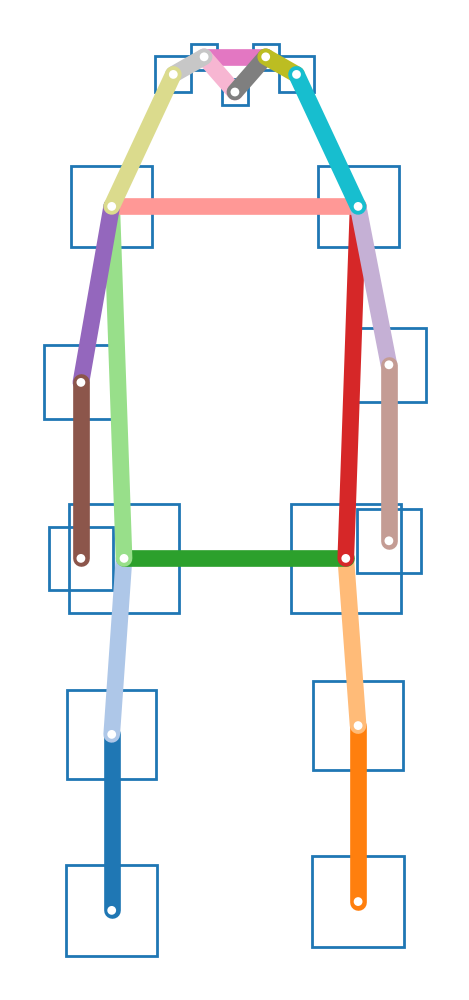
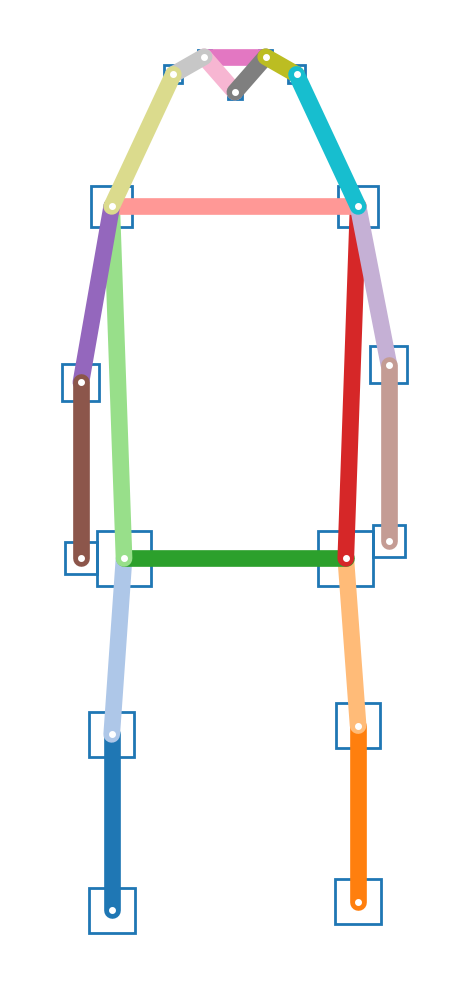
deploy: 9eb7ab5ee9b25835313995f84c4f773e4618a370

diff --git a/searchindex.js b/searchindex.js
@@ -1,1 +1,1 @@
-Search.setIndex({docnames:["datasets","dev","intro","moduledocs","predict_api","predict_cli","train"],envversion:{"sphinx.domains.c":1,"sphinx.domains.changeset":1,"sphinx.domains.citation":1,"sphinx.domains.cpp":1,"sphinx.domains.index":1,"sphinx.domains.javascript":1,"sphinx.domains.math":2,"sphinx.domains.python":1,"sphinx.domains.rst":1,"sphinx.domains.std":1,sphinx:56},filenames:["datasets.ipynb","dev.ipynb","intro.md","moduledocs.ipynb","predict_api.ipynb","predict_cli.ipynb","train.ipynb"],objects:{},objnames:{},objtypes:{},terms:{"15s":0,"604c5956":4,"ap\u1d38":2,"ap\u1d39":2,"default":5,"function":[1,3],"import":[0,3,4],"long":[5,6],"new":[2,6],"short":5,"static":1,"true":[4,5,6],"try":[2,5],"while":6,And:5,For:[1,2,6],That:6,The:[1,2,5,6],Then:4,Use:5,__doc__:3,__main__:5,__version__:4,a35c65dd:6,about:6,abov:[2,5],activ:4,again:1,alahi:2,alexandr:2,all:5,all_indic:4,also:5,altern:2,andriluka14cvpr:0,ani:5,annot:[0,3,4,5],annotations_trainval2017:0,anoth:5,appli:5,applic:5,architectur:2,art:2,asarrai:4,associ:[0,2,4],author:2,auto:6,automat:2,avail:[0,4,5],backbon:[2,3],backbonenameasintableabov:2,base:[2,5],base_net:4,basenet:[5,6],basenet_strid:4,basevisu:4,batch:[3,4,5,6],batch_siz:[4,5],batchnorm:6,bbox:5,begin:6,below:[4,5],benchmark:2,bertoni:2,best:2,blend:5,bodi:2,booktitl:2,bottom:2,box:[2,5],browser:2,bytesio:4,cach:4,caf25:[4,6],caf:[4,5,6],caf_th:5,can:[5,6],car:2,category_id:5,characterist:6,check:6,checkpoint:[2,4,5,6],choic:2,cif:[4,5,6],cif_th:5,cifcaf:5,cifdet:5,cifhr:5,cifse:4,clone:[1,2],clutter:2,coco:[2,4,5],coco_keypoint:0,coco_person_skeleton:0,cocodataset:0,code:1,colab:[1,2],collate_fn:4,collate_images_anns_meta:4,collect:3,color:5,color_connect:4,com:4,command:[1,2,5,6],comparison:2,compat:5,complet:5,composit:2,comput:2,confer:2,confid:5,configur:5,connect:5,constant:0,construct:2,content:4,continu:2,conv:5,convert:[3,4],convolut:2,coordin:3,coupl:5,cpu:4,creat:[0,2,5],credit:[2,4,5],cross:5,cross_talk:5,crowd:2,cuda:[4,5],cuda_visible_devic:6,current:[1,2],cvpr:2,cython:1,d05e5520:6,data:[0,3,4,5],dataset:6,debug:5,debug_indic:5,dec:2,decai:6,decod:[4,5],decoder_work:5,deliveri:2,demo:5,dens:[0,5],dense_coupl:5,depend:1,design:2,develop:1,devic:4,differ:6,directori:[0,1,2,5,6],disabl:5,doc:[2,4,5],domain:2,done:6,dot:1,download:[0,2,4],download_progress:4,dpi:5,dpi_factor:5,draw:[3,5],drive:2,dropout:5,each:2,edg:[5,6],edge401:6,edit:1,ema:6,empti:5,enabl:4,encod:2,end:2,enumer:0,epfl:[2,4],epoch150:6,epoch:6,estim:[2,4,5],eval_coco:[2,6],evalu:6,everi:[4,6],exact:6,exampl:5,exec:6,exist:[2,6],exit:5,experiment:[2,5],export_onnx:2,express:5,extend:6,factor:[5,6],factori:4,factory_decod:4,fals:[4,5],faster:5,featur:5,field:[2,3,5],fieldindex:5,fifth:4,figur:5,figure_width:5,file:[2,5,6],filter:5,find:6,fine:2,first:6,five:6,flag:5,flip:5,folder:[2,5],forc:5,form:[2,5],format:0,fotolog:[2,4,5],fps:5,frame:5,free:2,from:[2,3,5,6],front:2,frontier:5,full:[2,5],fulli:2,gener:5,get:4,github:[2,4],githubusercont:4,given:5,glob:5,googl:[1,2],grain:2,great:6,greedi:5,ground:3,gsutil:0,gtx1080ti:2,guid:2,head:[3,5],head_dropout:5,head_net:4,head_quad:5,headless:5,headnam:5,headnet:[5,6],help:[2,5],here:[4,5],hflip:5,higher:3,hip:4,home:4,horizont:5,http:[0,2,4,5],human:2,ieee:2,imag:[0,2,5],image_canva:4,image_info_test2017:0,image_output:5,image_respons:4,imagenet:[5,6],images_batch:4,implement:3,improv:6,incorpor:2,increas:5,index:4,indic:5,individu:4,inf:0,info:5,inform:2,initi:6,inlin:4,inproceed:2,input:[3,5],insid:0,instal:1,instanc:5,instance_threshold:[4,5],instruct:6,integ:5,intens:2,interact:5,intro:5,invari:6,itself:1,joint1:0,joint2:0,joint:5,jpg:[2,4,5],json:[0,5],json_output:5,june:2,kba19:2,keypoint:[2,3,4,5],keypoint_paint:4,keypoint_threshold:[4,5],keypointpaint:4,kinemat:0,kp_name:0,kreiss2019pifpaf:2,kreiss:[2,4,5],lambda:6,laplac:2,larg:6,last:1,learn:[2,4,5,6],left:4,left_ankl:0,left_ear:0,left_elbow:0,left_ey:0,left_hip:0,left_kne:0,left_should:0,left_wrist:0,level:3,licens:[2,4,5],line:[2,5,6],line_width:5,linewidth:4,link:2,linux:2,list:[0,5],live:2,load:[3,5],loader:[4,5],loader_work:5,local:2,log:[2,5],long_edg:5,look:6,lorenzo:2,loss:2,low:2,maco:2,macosx:5,make:[2,6],mani:5,master:4,matplotlib:[4,5],max:5,max_fram:5,messag:5,method:[2,5],metric:[2,6],migrat:2,minimum:5,minut:6,mkdir:0,mobil:2,model:[5,6],modifi:[1,2],moment:2,momentum:6,monocolor:5,monocular:2,monoloco:2,month:2,more:2,mp4:5,mpg:0,mpi:0,mpii:0,mpii_human_pose_v1:0,mpii_human_pose_v1_u12_2:0,mplbackend:5,mscoco:0,mtl:6,much:2,multi:[2,4,5],must:4,myvideotoprocess:5,name:[0,2,6],need:1,net:4,net_cpu:4,network:5,nightowl:0,nightowls_valid:0,nms:4,none:5,nose:0,notion:2,number:5,numpi:[1,4],o10:4,obtain:2,occlud:2,old:2,onli:5,open:[3,4],opencv:[2,5],openpifpaf:[0,1,2,4,5,6],openpifpafwebdemo:2,option:[1,2,6],order:5,org:0,orient:6,other:[2,5],our:2,out:5,outperform:2,output:[2,5,6],overlai:5,packag:1,paf:[2,6],paper:2,par:2,part:2,particularli:2,pass:4,pattern:2,pedestrian:2,perform:[2,6],person:[2,4,5],pif:[2,6],pifpaf:[2,3,5],pil:4,pil_im:4,pilimagelist:4,pin_memori:4,pip3:[1,2],pip:1,pkl:[4,6],placehold:2,plot:5,png:5,pose:[2,4,5],posit:5,possibl:5,pre:6,predict:[1,2],prefix:5,preprocess:5,pretrain:[2,5,6],previou:2,primit:3,print:[0,3,4,5],probabl:5,process:5,processor:4,produc:[2,5,6],prof:5,profil:5,profile_decod:5,program:5,programmat:4,propos:2,provid:[2,5],python3:[0,2,5,6],python:[0,1,2,5],pyx:1,quad:5,quiet:5,rate:6,raw:4,recognit:2,recommend:2,recompil:1,reduc:[5,6],refer:2,refin:6,regress:2,releas:4,replac:5,repositori:[1,2],reproduc:2,request:4,requir:[2,5],resnet101:[2,5],resnet101block5:6,resnet152:5,resnet152block5:6,resnet50:[2,5,6],resnet50block5:6,resolut:2,result:2,rgb:4,right_ankl:0,right_ear:0,right_elbow:0,right_ey:0,right_hip:0,right_kne:0,right_should:0,right_wrist:0,robot:[0,2],rsync:0,rtmp:5,run:[0,1,2,4,5],runner:4,runningstatist:6,same:6,scale:[5,6],scene:2,score:5,screen:2,see:6,seed:5,seed_threshold:5,self:2,set:[2,3],share:2,shoot:5,shot:2,should:4,shoulder:4,show:[4,5],show_regress:4,shufflenetv2k16w:[2,4,6],shufflenetv2k30w:2,shufflenetv2k44w:6,shufflenetv2x2:2,signifi:1,singl:2,size:[5,6],skeleton:5,skip:[5,6],skip_fram:5,sleep:6,sourc:[1,5],specifi:[4,5],squar:6,standard:2,start:5,start_fram:5,state:2,stream:5,stride:4,string:5,subpixel:5,suit:2,support:[2,5],sure:2,surf:[2,4,5],sven:[2,4,5],system:5,tabl:2,take:[3,6],talk:5,tar:0,target:3,task:2,test2017:0,test:[0,1,2],than:2,thank:2,thei:6,thi:[1,2,5],threshold:[4,5],time:[5,6],titl:2,tool:[2,3,5],torch:4,torchhub:[2,4],total:2,train2017:0,train:[1,3],transport:2,tree:0,troubl:5,truth:3,tune:6,turn:3,two:5,type:4,uncertainti:2,uncom:1,under:[2,4,5],unzip:0,updat:6,upgrad:1,urban:2,url:5,usag:5,use:[4,5],used:[5,6],uses:2,using:[1,2,4],util:4,val2017:0,val:2,valid:5,version:[1,2,5],vgg:0,video:2,video_fp:5,video_output:5,vision:2,visual:[5,6],vita:[2,4],warm:6,warn:5,web:2,webcam0:5,webcam:5,weight:6,well:2,wget:0,when:[1,2,4],which:[1,2,4,5],width:5,window:2,without:[5,6],work:2,worker:5,www:0,year:2,you:[1,5,6],your:2,zero:5,zip:0},titles:["Datasets","Contribute","Introduction","Modules","Prediction API","Prediction CLI","Training"],titleterms:{api:4,argument:5,citat:2,cli:5,coco:0,contribut:1,dataload:4,dataset:[0,3,4],decod:3,demo:2,displai:4,encod:3,exampl:4,field:4,histori:1,imag:4,instal:2,interfac:2,introduct:2,keypoint:0,load:4,log:6,model:2,modul:3,network:[3,4],neural:4,openpifpaf:3,option:5,person:0,pre:2,predict:[4,5],project:2,relat:2,resnet:6,scratch:1,show:3,shufflenet:6,skeleton:0,train:[2,4,6],transform:3,video:5,visual:[3,4]}})
+Search.setIndex({docnames:["datasets","dev","intro","moduledocs","predict_api","predict_cli","train"],envversion:{"sphinx.domains.c":1,"sphinx.domains.changeset":1,"sphinx.domains.citation":1,"sphinx.domains.cpp":1,"sphinx.domains.index":1,"sphinx.domains.javascript":1,"sphinx.domains.math":2,"sphinx.domains.python":1,"sphinx.domains.rst":1,"sphinx.domains.std":1,sphinx:56},filenames:["datasets.ipynb","dev.ipynb","intro.md","moduledocs.ipynb","predict_api.ipynb","predict_cli.ipynb","train.ipynb"],objects:{},objnames:{},objtypes:{},terms:{"15s":0,"604c5956":4,"ap\u1d38":2,"ap\u1d39":2,"default":5,"function":[1,3],"import":[0,1,3,4],"long":[5,6],"new":[2,6],"short":5,"static":1,"true":[1,4,5,6],"try":[2,5],"while":6,And:5,Axes:1,For:[1,2,6],That:6,The:[1,2,5,6],Then:4,Use:5,__doc__:3,__main__:5,__version__:4,a35c65dd:6,about:6,abov:[2,5],activ:4,again:1,alahi:2,alexandr:2,all:5,all_indic:4,also:5,altern:2,andriluka14cvpr:0,ani:5,ann:1,annot:[0,1,3,4,5],annotations_trainval2017:0,anoth:5,appli:5,applic:5,architectur:2,art:2,asarrai:4,aspect:1,associ:[0,2,4],author:2,auto:6,automat:2,avail:[0,4,5],backbon:[2,3],backbonenameasintableabov:2,base:[2,5],base_net:4,basenet:[5,6],basenet_strid:4,basevisu:4,batch:[3,4,5,6],batch_siz:[4,5],batchnorm:6,bbox:5,bbox_inch:1,begin:6,below:[4,5],benchmark:2,bertoni:2,best:2,blend:5,bodi:2,booktitl:2,bottom:2,box:[2,5],browser:2,bytes_io:1,bytesio:4,cach:4,caf25:[4,6],caf:[4,5,6],caf_th:5,can:[5,6],canva:1,car:2,category_id:5,characterist:6,check:6,checkpoint:[2,4,5,6],choic:2,cif:[4,5,6],cif_th:5,cifcaf:5,cifdet:5,cifhr:5,cifse:4,clone:[1,2],clutter:2,coco:[2,4,5],coco_keypoint:[0,1],coco_person_sigma:1,coco_person_skeleton:[0,1],coco_upright_pos:1,cocodataset:0,code:1,colab:[1,2],collate_fn:4,collate_images_anns_meta:4,collect:3,color:5,color_connect:[1,4],com:4,command:[1,2,5,6],comparison:2,compat:[1,5],complet:5,composit:2,comput:2,confer:2,confid:5,configur:5,connect:5,constant:[0,1],construct:2,content:4,continu:2,conv:5,convert:[3,4],convolut:2,coordin:3,core:1,coupl:5,cpu:4,creat:[0,2,5],credit:[2,4,5],cross:5,cross_talk:5,crowd:2,cuda:[4,5],cuda_visible_devic:6,current:[1,2],cvpr:2,cython:1,d05e5520:6,data:[0,3,4,5],dataset:[1,6],debug:5,debug_indic:5,dec:2,decai:6,decod:[4,5],decoder_work:5,deliveri:2,demo:5,dens:[0,5],dense_coupl:5,depend:1,design:2,develop:1,devic:4,differ:6,directori:[0,1,2,5,6],disabl:5,doc:[2,4,5],domain:2,done:6,dot:1,download:[0,2,4],download_progress:4,dpi:[1,5],dpi_factor:5,draw:[3,5],draw_ann:1,drive:2,dropout:5,each:2,edg:[5,6],edge401:6,edit:1,ema:6,empti:5,enabl:4,encod:2,end:2,enumer:0,epfl:[2,4],epoch150:6,epoch:6,equal:1,estim:[2,4,5],eval_coco:[2,6],evalu:6,everi:[4,6],exact:6,exampl:5,exec:6,exist:[2,6],exit:5,experiment:[2,5],export_onnx:2,express:5,extend:6,factor:[5,6],factori:4,factory_decod:4,fals:[1,4,5],faster:5,featur:5,field:[2,3,5],fieldindex:5,fifth:4,fig:1,fig_fil:1,figur:[1,5],figure_width:5,file:[2,5,6],filenam:1,filter:5,find:6,fine:2,first:6,five:6,flag:5,flip:5,folder:[2,5],forc:5,form:[2,5],format:0,fotolog:[2,4,5],fps:5,frame:5,frameon:1,free:2,from:[1,2,3,5,6],front:2,frontier:5,full:[2,5],fulli:2,gener:5,get:4,github:[2,4],githubusercont:4,given:5,glob:5,googl:[1,2],grain:2,great:6,greedi:5,ground:3,gsutil:0,gtx1080ti:2,guid:2,head:[3,5],head_dropout:5,head_net:4,head_quad:5,headless:5,headnam:5,headnet:[5,6],help:[2,5],here:[4,5],hflip:5,higher:3,hip:4,home:4,horizont:5,hostedtoolcach:1,http:[0,2,4,5],human:2,ieee:2,imag:[0,2,5],image_canva:4,image_info_test2017:0,image_output:5,image_respons:4,imagenet:[5,6],images_batch:4,implement:3,improv:6,includ:1,incorpor:2,incorrect:1,increas:5,index:4,indic:5,individu:4,inf:0,info:5,inform:2,initi:6,inlin:[1,4],inproceed:2,input:[3,5],insid:0,instal:1,instanc:5,instance_threshold:[4,5],instruct:6,integ:5,intens:2,interact:5,intro:5,invari:6,ipython:1,itself:1,joint1:0,joint2:0,joint:5,jpg:[2,4,5],json:[0,5],json_output:5,june:2,kba19:2,keypoint:[1,2,3,4,5],keypoint_paint:[1,4],keypoint_threshold:[4,5],keypointpaint:[1,4],kinemat:0,kp_name:0,kreiss2019pifpaf:2,kreiss:[2,4,5],lambda:6,laplac:2,larg:6,last:1,learn:[2,4,5,6],left:4,left_ankl:0,left_ear:0,left_elbow:0,left_ey:0,left_hip:0,left_kne:0,left_should:0,left_wrist:0,level:3,lib:1,licens:[2,4,5],line:[2,5,6],line_width:5,linewidth:[1,4],link:2,linux:2,list:[0,5],live:2,load:[3,5],loader:[4,5],loader_work:5,local:2,log:[2,5],long_edg:5,look:6,lorenzo:2,loss:2,low:2,maco:2,macosx:5,make:[2,6],mani:5,margin:1,markers:1,master:4,matplotlib:[1,4,5],max:5,max_fram:5,messag:5,method:[2,5],metric:[2,6],might:1,migrat:2,minimum:5,minut:6,mkdir:0,mobil:2,model:[5,6],modifi:[1,2],moment:2,momentum:6,monocolor:5,monocular:2,monoloco:2,month:2,more:2,mp4:5,mpg:0,mpi:0,mpii:0,mpii_human_pose_v1:0,mpii_human_pose_v1_u12_2:0,mplbackend:5,mscoco:0,mtl:6,much:2,multi:[2,4,5],must:4,myvideotoprocess:5,name:[0,2,6],need:1,net:4,net_cpu:4,network:5,nightowl:0,nightowls_valid:0,nms:4,none:5,nose:0,notion:2,number:5,numpi:[1,4],o10:4,obtain:2,occlud:2,old:2,onli:5,open:[3,4],opencv:[2,5],openpifpaf:[0,1,2,4,5,6],openpifpafwebdemo:2,opt:1,option:[1,2,6],order:5,org:0,orient:6,other:[2,5],our:2,out:5,outperform:2,output:[2,5,6],overlai:5,packag:1,paf:[2,6],paper:2,par:2,part:2,particularli:2,pass:4,pattern:2,pedestrian:2,perform:[2,6],person:[2,4,5],pif:[2,6],pifpaf:[2,3,5],pil:4,pil_im:4,pilimagelist:4,pin_memori:4,pip3:[1,2],pip:1,pkl:[4,6],placehold:2,plot:5,png:[1,5],pose:[2,4,5],posit:5,possibl:5,pre:6,predict:[1,2],prefix:5,preprocess:5,pretrain:[2,5,6],previou:2,primit:3,print:[0,3,4,5],print_figur:1,probabl:5,process:5,processor:4,produc:[2,5,6],prof:5,profil:5,profile_decod:5,program:5,programmat:4,propos:2,provid:[2,5],pylabtool:1,python3:[0,1,2,5,6],python:[0,1,2,5],pyx:1,quad:5,quiet:5,rate:6,raw:4,recognit:2,recommend:2,recompil:1,reduc:[5,6],refer:2,refin:6,regress:2,releas:4,replac:5,repositori:[1,2],reproduc:2,request:4,requir:[2,5],resnet101:[2,5],resnet101block5:6,resnet152:5,resnet152block5:6,resnet50:[2,5,6],resnet50block5:6,resolut:2,result:[1,2],rgb:4,right_ankl:0,right_ear:0,right_elbow:0,right_ey:0,right_hip:0,right_kne:0,right_should:0,right_wrist:0,robot:[0,2],rsync:0,rtmp:5,run:[0,1,2,4,5],runner:4,runningstatist:6,same:6,savefig:1,scale:[5,6],scene:2,score:5,screen:2,see:6,seed:5,seed_threshold:5,self:2,set:[1,2,3],share:2,shoot:5,shot:2,should:4,shoulder:4,show:[1,4,5],show_regress:4,shufflenetv2k16w:[2,4,6],shufflenetv2k30w:2,shufflenetv2k44w:6,shufflenetv2x2:2,signifi:1,singl:2,site:1,size:[5,6],skeleton:[1,5],skip:[5,6],skip_fram:5,sleep:6,sourc:[1,5],specifi:[4,5],squar:6,standard:2,start:5,start_fram:5,state:2,stream:5,stride:4,string:5,subpixel:5,suit:2,support:[2,5],sure:2,surf:[2,4,5],sven:[2,4,5],system:5,tabl:2,take:[3,6],talk:5,tar:0,target:3,task:2,test2017:0,test:[0,1,2],than:2,thank:2,thei:6,thi:[1,2,5],threshold:[4,5],tight:1,tight_layout:1,time:[5,6],titl:2,tool:[2,3,5],torch:4,torchhub:[2,4],total:2,train2017:0,train:[1,3],transport:2,tree:0,troubl:5,truth:3,tune:6,turn:3,two:5,type:4,uncertainti:2,uncom:1,under:[2,4,5],unzip:0,updat:6,upgrad:1,urban:2,url:5,usag:5,use:[4,5],used:[5,6],userwarn:1,uses:2,using:[1,2,4],util:4,val2017:0,val:2,valid:5,version:[1,2,5],vgg:0,video:2,video_fp:5,video_output:5,vision:2,visual:[5,6],vita:[2,4],warm:6,warn:5,web:2,webcam0:5,webcam:5,weight:6,well:2,wget:0,when:[1,2,4],which:[1,2,4,5],width:5,window:2,without:[5,6],work:2,worker:5,www:0,x64:1,year:2,you:[1,5,6],your:2,zero:5,zip:0},titles:["Datasets","Contribute","Introduction","Modules","Prediction API","Prediction CLI","Training"],titleterms:{api:4,argument:5,citat:2,cli:5,coco:0,contribut:1,dataload:4,dataset:[0,3,4],decod:3,demo:2,displai:4,encod:3,exampl:4,favicon:1,field:4,histori:1,imag:4,instal:2,interfac:2,introduct:2,keypoint:0,load:4,log:6,logo:1,model:2,modul:3,network:[3,4],neural:4,openpifpaf:3,option:5,person:0,pre:2,predict:[4,5],project:2,relat:2,resnet:6,scratch:1,show:3,shufflenet:6,skeleton:0,train:[2,4,6],transform:3,video:5,visual:[3,4]}})

diff --git a/dev.html b/dev.html
@@ -28,6 +28,7 @@
     <script >var togglebuttonSelector = '.toggle, .secondtoggle, .tag_hide_input div.cell_input, .tag_hide-input div.cell_input, .tag_hide_output div.cell_output, .tag_hide-output div.cell_output, .tag_hide_cell.cell, .tag_hide-cell.cell';</script>
     <script src="https://cdnjs.cloudflare.com/ajax/libs/require.js/2.3.4/require.min.js"></script>
     <script src="https://unpkg.com/@jupyter-widgets/html-manager@^0.18.0/dist/embed-amd.js"></script>
+    <link rel="shortcut icon" href="_static/favicon.png"/>
     <link rel="index" title="Index" href="genindex.html" />
     <link rel="search" title="Search" href="search.html" />
     <link rel="prev" title="Modules" href="moduledocs.html" />
@@ -48,6 +49,8 @@
     
         <div class="navbar-brand-box">
 <a class="navbar-brand text-wrap" href="index.html">
+  
+  <img src="_static/logo.png" class="logo" alt="logo">
   
   
   <h1 class="site-logo" id="site-title">OpenPifPaf Guide</h1>
@@ -158,9 +161,16 @@
         
     </div>
     <div class="d-none d-md-block col-md-2 bd-toc show">
+<div class="tocsection onthispage pt-5 pb-3">
+    <i class="fas fa-list"></i> On this page
+</div>
 
 <nav id="bd-toc-nav">
     <ul class="nav section-nav flex-column">
+    
+        <li class="nav-item toc-entry toc-h2">
+            <a href="#logo-and-favicon" class="nav-link">Logo and Favicon</a>
+        </li>
     
     </ul>
 </nav>
@@ -184,6 +194,41 @@ pip3 install --editable <span class="s1">&#39;.[train,test]&#39;</span>
 (signified by the dot) with the optional dependencies needed for training and
 testing. If you modify <code class="docutils literal notranslate"><span class="pre">functional.pyx</span></code>, run this last command again which
 recompiles the static code.</p>
+<div class="section" id="logo-and-favicon">
+<h2>Logo and Favicon<a class="headerlink" href="#logo-and-favicon" title="Permalink to this headline">¶</a></h2>
+<div class="cell docutils container">
+<div class="cell_input docutils container">
+<div class="highlight-default notranslate"><div class="highlight"><pre><span></span><span class="o">%</span><span class="n">matplotlib</span> <span class="n">inline</span>
+<span class="kn">import</span> <span class="nn">openpifpaf</span>
+<span class="kn">from</span> <span class="nn">openpifpaf.datasets.constants</span> <span class="kn">import</span> <span class="n">COCO_KEYPOINTS</span><span class="p">,</span> <span class="n">COCO_PERSON_SKELETON</span><span class="p">,</span> <span class="n">COCO_PERSON_SIGMAS</span><span class="p">,</span> <span class="n">COCO_UPRIGHT_POSE</span>
+
+<span class="n">ann</span> <span class="o">=</span> <span class="n">openpifpaf</span><span class="o">.</span><span class="n">Annotation</span><span class="p">(</span><span class="n">keypoints</span><span class="o">=</span><span class="n">COCO_KEYPOINTS</span><span class="p">,</span> <span class="n">skeleton</span><span class="o">=</span><span class="n">COCO_PERSON_SKELETON</span><span class="p">)</span>
+<span class="n">ann</span><span class="o">.</span><span class="n">set</span><span class="p">(</span><span class="n">COCO_UPRIGHT_POSE</span><span class="p">)</span>
+
+<span class="n">keypoint_painter</span> <span class="o">=</span> <span class="n">openpifpaf</span><span class="o">.</span><span class="n">show</span><span class="o">.</span><span class="n">KeypointPainter</span><span class="p">(</span><span class="n">color_connections</span><span class="o">=</span><span class="kc">True</span><span class="p">,</span> <span class="n">linewidth</span><span class="o">=</span><span class="mi">48</span><span class="p">,</span> <span class="n">markersize</span><span class="o">=</span><span class="mi">0</span><span class="p">)</span>
+<span class="n">openpifpaf</span><span class="o">.</span><span class="n">datasets</span><span class="o">.</span><span class="n">constants</span><span class="o">.</span><span class="n">draw_ann</span><span class="p">(</span><span class="n">ann</span><span class="p">,</span> <span class="n">keypoint_painter</span><span class="o">=</span><span class="n">keypoint_painter</span><span class="p">,</span> <span class="n">aspect</span><span class="o">=</span><span class="s1">&#39;equal&#39;</span><span class="p">,</span> <span class="n">margin</span><span class="o">=</span><span class="mf">0.8</span><span class="p">,</span> <span class="n">frameon</span><span class="o">=</span><span class="kc">False</span><span class="p">,</span> <span class="n">filename</span><span class="o">=</span><span class="s1">&#39;favicon.png&#39;</span><span class="p">)</span>
+
+<span class="n">keypoint_painter</span> <span class="o">=</span> <span class="n">openpifpaf</span><span class="o">.</span><span class="n">show</span><span class="o">.</span><span class="n">KeypointPainter</span><span class="p">(</span><span class="n">color_connections</span><span class="o">=</span><span class="kc">True</span><span class="p">,</span> <span class="n">linewidth</span><span class="o">=</span><span class="mi">12</span><span class="p">)</span>
+<span class="n">openpifpaf</span><span class="o">.</span><span class="n">datasets</span><span class="o">.</span><span class="n">constants</span><span class="o">.</span><span class="n">draw_ann</span><span class="p">(</span><span class="n">ann</span><span class="p">,</span> <span class="n">keypoint_painter</span><span class="o">=</span><span class="n">keypoint_painter</span><span class="p">,</span> <span class="n">frameon</span><span class="o">=</span><span class="kc">False</span><span class="p">,</span> <span class="n">filename</span><span class="o">=</span><span class="s1">&#39;logo.png&#39;</span><span class="p">)</span>
+</pre></div>
+</div>
+</div>
+<div class="cell_output docutils container">
+<div class="stderr docutils container">
+<pre class="stderr literal-block">/opt/hostedtoolcache/Python/3.7.7/x64/lib/python3.7/site-packages/openpifpaf/show/canvas.py:33: UserWarning: This figure includes Axes that are not compatible with tight_layout, so results might be incorrect.
+  fig.savefig(fig_file, dpi=dpi)  # , bbox_inches='tight')
+</pre>
+</div>
+<div class="stderr docutils container">
+<pre class="stderr literal-block">/opt/hostedtoolcache/Python/3.7.7/x64/lib/python3.7/site-packages/IPython/core/pylabtools.py:132: UserWarning: This figure includes Axes that are not compatible with tight_layout, so results might be incorrect.
+  fig.canvas.print_figure(bytes_io, **kw)
+</pre>
+</div>
+<img alt="_images/dev_2_2.png" src="_images/dev_2_2.png" />
+<img alt="_images/dev_2_3.png" src="_images/dev_2_3.png" />
+</div>
+</div>
+</div>
 </div>
 <div class="section" id="history">
 <h1>History<a class="headerlink" href="#history" title="Permalink to this headline">¶</a></h1>

diff --git a/predict_cli.html b/predict_cli.html
@@ -28,6 +28,7 @@
     <script >var togglebuttonSelector = '.toggle, .secondtoggle, .tag_hide_input div.cell_input, .tag_hide-input div.cell_input, .tag_hide_output div.cell_output, .tag_hide-output div.cell_output, .tag_hide_cell.cell, .tag_hide-cell.cell';</script>
     <script src="https://cdnjs.cloudflare.com/ajax/libs/require.js/2.3.4/require.min.js"></script>
     <script src="https://unpkg.com/@jupyter-widgets/html-manager@^0.18.0/dist/embed-amd.js"></script>
+    <link rel="shortcut icon" href="_static/favicon.png"/>
     <link rel="index" title="Index" href="genindex.html" />
     <link rel="search" title="Search" href="search.html" />
     <link rel="next" title="Prediction API" href="predict_api.html" />
@@ -49,6 +50,8 @@
     
         <div class="navbar-brand-box">
 <a class="navbar-brand text-wrap" href="index.html">
+  
+  <img src="_static/logo.png" class="logo" alt="logo">
   
   
   <h1 class="site-logo" id="site-title">OpenPifPaf Guide</h1>

diff --git a/train.html b/train.html
@@ -28,6 +28,7 @@
     <script >var togglebuttonSelector = '.toggle, .secondtoggle, .tag_hide_input div.cell_input, .tag_hide-input div.cell_input, .tag_hide_output div.cell_output, .tag_hide-output div.cell_output, .tag_hide_cell.cell, .tag_hide-cell.cell';</script>
     <script src="https://cdnjs.cloudflare.com/ajax/libs/require.js/2.3.4/require.min.js"></script>
     <script src="https://unpkg.com/@jupyter-widgets/html-manager@^0.18.0/dist/embed-amd.js"></script>
+    <link rel="shortcut icon" href="_static/favicon.png"/>
     <link rel="index" title="Index" href="genindex.html" />
     <link rel="search" title="Search" href="search.html" />
     <link rel="next" title="Prediction CLI" href="predict_cli.html" />
@@ -49,6 +50,8 @@
     
         <div class="navbar-brand-box">
 <a class="navbar-brand text-wrap" href="index.html">
+  
+  <img src="_static/logo.png" class="logo" alt="logo">
   
   
   <h1 class="site-logo" id="site-title">OpenPifPaf Guide</h1>

diff --git a/predict_api.html b/predict_api.html
@@ -28,6 +28,7 @@
     <script >var togglebuttonSelector = '.toggle, .secondtoggle, .tag_hide_input div.cell_input, .tag_hide-input div.cell_input, .tag_hide_output div.cell_output, .tag_hide-output div.cell_output, .tag_hide_cell.cell, .tag_hide-cell.cell';</script>
     <script src="https://cdnjs.cloudflare.com/ajax/libs/require.js/2.3.4/require.min.js"></script>
     <script src="https://unpkg.com/@jupyter-widgets/html-manager@^0.18.0/dist/embed-amd.js"></script>
+    <link rel="shortcut icon" href="_static/favicon.png"/>
     <link rel="index" title="Index" href="genindex.html" />
     <link rel="search" title="Search" href="search.html" />
     <link rel="next" title="Modules" href="moduledocs.html" />
@@ -49,6 +50,8 @@
     
         <div class="navbar-brand-box">
 <a class="navbar-brand text-wrap" href="index.html">
+  
+  <img src="_static/logo.png" class="logo" alt="logo">
   
   
   <h1 class="site-logo" id="site-title">OpenPifPaf Guide</h1>

diff --git a/intro.html b/intro.html
@@ -28,6 +28,7 @@
     <script >var togglebuttonSelector = '.toggle, .secondtoggle, .tag_hide_input div.cell_input, .tag_hide-input div.cell_input, .tag_hide_output div.cell_output, .tag_hide-output div.cell_output, .tag_hide_cell.cell, .tag_hide-cell.cell';</script>
     <script src="https://cdnjs.cloudflare.com/ajax/libs/require.js/2.3.4/require.min.js"></script>
     <script src="https://unpkg.com/@jupyter-widgets/html-manager@^0.18.0/dist/embed-amd.js"></script>
+    <link rel="shortcut icon" href="_static/favicon.png"/>
     <link rel="index" title="Index" href="genindex.html" />
     <link rel="search" title="Search" href="search.html" />
     <link rel="next" title="Datasets" href="datasets.html" />
@@ -48,6 +49,8 @@
     
         <div class="navbar-brand-box">
 <a class="navbar-brand text-wrap" href="index.html">
+  
+  <img src="_static/logo.png" class="logo" alt="logo">
   
   
   <h1 class="site-logo" id="site-title">OpenPifPaf Guide</h1>

diff --git a/datasets.html b/datasets.html
@@ -28,6 +28,7 @@
     <script >var togglebuttonSelector = '.toggle, .secondtoggle, .tag_hide_input div.cell_input, .tag_hide-input div.cell_input, .tag_hide_output div.cell_output, .tag_hide-output div.cell_output, .tag_hide_cell.cell, .tag_hide-cell.cell';</script>
     <script src="https://cdnjs.cloudflare.com/ajax/libs/require.js/2.3.4/require.min.js"></script>
     <script src="https://unpkg.com/@jupyter-widgets/html-manager@^0.18.0/dist/embed-amd.js"></script>
+    <link rel="shortcut icon" href="_static/favicon.png"/>
     <link rel="index" title="Index" href="genindex.html" />
     <link rel="search" title="Search" href="search.html" />
     <link rel="next" title="Training" href="train.html" />
@@ -49,6 +50,8 @@
     
         <div class="navbar-brand-box">
 <a class="navbar-brand text-wrap" href="index.html">
+  
+  <img src="_static/logo.png" class="logo" alt="logo">
   
   
   <h1 class="site-logo" id="site-title">OpenPifPaf Guide</h1>

diff --git a/moduledocs.html b/moduledocs.html
@@ -28,6 +28,7 @@
     <script >var togglebuttonSelector = '.toggle, .secondtoggle, .tag_hide_input div.cell_input, .tag_hide-input div.cell_input, .tag_hide_output div.cell_output, .tag_hide-output div.cell_output, .tag_hide_cell.cell, .tag_hide-cell.cell';</script>
     <script src="https://cdnjs.cloudflare.com/ajax/libs/require.js/2.3.4/require.min.js"></script>
     <script src="https://unpkg.com/@jupyter-widgets/html-manager@^0.18.0/dist/embed-amd.js"></script>
+    <link rel="shortcut icon" href="_static/favicon.png"/>
     <link rel="index" title="Index" href="genindex.html" />
     <link rel="search" title="Search" href="search.html" />
     <link rel="next" title="Contribute" href="dev.html" />
@@ -49,6 +50,8 @@
     
         <div class="navbar-brand-box">
 <a class="navbar-brand text-wrap" href="index.html">
+  
+  <img src="_static/logo.png" class="logo" alt="logo">
   
   
   <h1 class="site-logo" id="site-title">OpenPifPaf Guide</h1>

diff --git a/genindex.html b/genindex.html
@@ -29,6 +29,7 @@
     <script >var togglebuttonSelector = '.toggle, .secondtoggle, .tag_hide_input div.cell_input, .tag_hide-input div.cell_input, .tag_hide_output div.cell_output, .tag_hide-output div.cell_output, .tag_hide_cell.cell, .tag_hide-cell.cell';</script>
     <script src="https://cdnjs.cloudflare.com/ajax/libs/require.js/2.3.4/require.min.js"></script>
     <script src="https://unpkg.com/@jupyter-widgets/html-manager@^0.18.0/dist/embed-amd.js"></script>
+    <link rel="shortcut icon" href="_static/favicon.png"/>
     <link rel="index" title="Index" href="#" />
     <link rel="search" title="Search" href="search.html" />
 
@@ -48,6 +49,8 @@
     
         <div class="navbar-brand-box">
 <a class="navbar-brand text-wrap" href="index.html">
+  
+  <img src="_static/logo.png" class="logo" alt="logo">
   
   
   <h1 class="site-logo" id="site-title">OpenPifPaf Guide</h1>

diff --git a/search.html b/search.html
@@ -30,6 +30,7 @@
     <script src="https://cdnjs.cloudflare.com/ajax/libs/require.js/2.3.4/require.min.js"></script>
     <script src="https://unpkg.com/@jupyter-widgets/html-manager@^0.18.0/dist/embed-amd.js"></script>
     <script src="_static/searchtools.js"></script>
+    <link rel="shortcut icon" href="_static/favicon.png"/>
     <link rel="index" title="Index" href="genindex.html" />
     <link rel="search" title="Search" href="#" />
   <script src="searchindex.js" defer></script>
@@ -52,6 +53,8 @@
     
         <div class="navbar-brand-box">
 <a class="navbar-brand text-wrap" href="index.html">
+  
+  <img src="_static/logo.png" class="logo" alt="logo">
   
   
   <h1 class="site-logo" id="site-title">OpenPifPaf Guide</h1>
